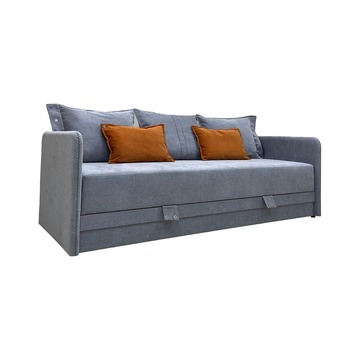
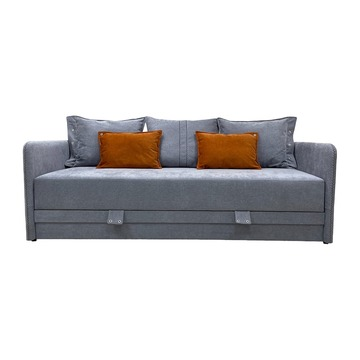
Обновление каталога

Changed region(s): [[0.0611, 0.275, 0.9472, 0.7333]]

diff --git a/index.html b/index.html
@@ -466,7 +466,7 @@ img { display: block; max-width: 100%; }
 
     function buildHighlights() {
         var cats = uniq(products.map(function (p) { return p.category; }));
-        var HL_PHOTO = { "Диваны": "brand/hl-divany.jpg" };  // «Милан» (Ринат 23.10): фото фабрики, кадрирован под круг
+        var HL_PHOTO = { "Диваны": "brand/hl-divany.jpg" };  // «Милан», вид спереди (Ринат 23.10): фото фабрики, вписан в круг целиком
         $("highlights").innerHTML = cats.map(function (c) {
             var inCat = products.filter(function (x) { return x.category === c; }), photo = "";
             inCat.some(function (x) { return x.photos.some(function (f) { return f.indexOf("/white/") > -1 && (photo = f); }); });
